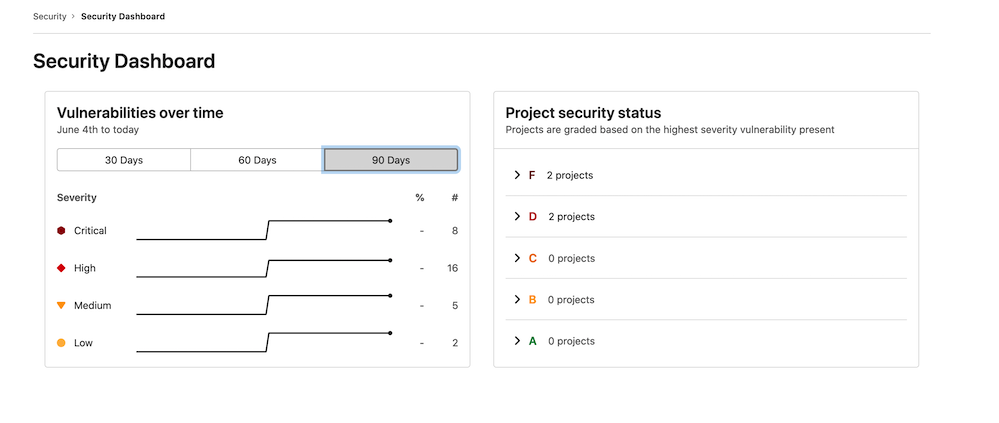
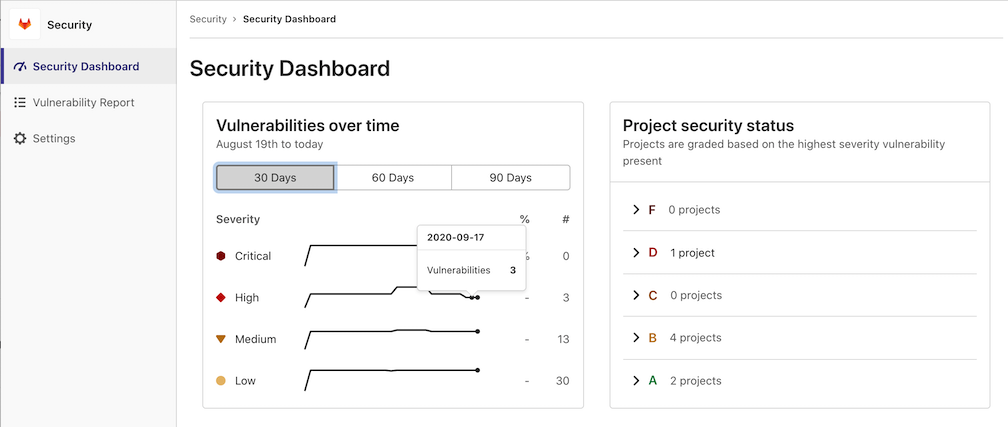
Changing Security Dashboard to Security Center

diff --git a/doc/user/application_security/security_dashboard/index.md b/doc/user/application_security/security_dashboard/index.md
@@ -5,21 +5,26 @@ group: Threat Insights
 info: To determine the technical writer assigned to the Stage/Group associated with this page, see https://about.gitlab.com/handbook/engineering/ux/technical-writing/#designated-technical-writers
 ---
 
-# GitLab Security Dashboard **(ULTIMATE)**
+# GitLab Security Dashboard, Security Center, and Vulnerability Reports **(ULTIMATE)**
 
-The Security Dashboard is a good place to get an overview of all the security
-vulnerabilities in your groups, projects, and pipelines.
+GitLab provides a comprehensive set of features for viewing and managing vulnerabilities:
+
+- Security dashboards: An overview of the security status in your instance, groups, and projects.
+- Vulnerability reports: Detailed lists of all vulnerabilities for the instance, group, project, or
+  pipeline. This is where you triage and manage vulnerabilities.
+- Security Center: A dedicated area for vulnerability management at the instance level. This
+  includes a security dashboard, vulnerability report, and settings.
 
 You can also drill down into a vulnerability and get extra information. This includes the project it
 comes from, any related file(s), and metadata that helps you analyze the risk it poses. You can also
 dismiss a vulnerability or create an issue for it.
 
-To benefit from the Security Dashboard you must first configure one of the
+To benefit from these features, you must first configure one of the
 [security scanners](../index.md).
 
 ## Supported reports
 
-The Security Dashboard displays vulnerabilities detected by scanners such as:
+The vulnerability report displays vulnerabilities detected by scanners such as:
 
 - [Container Scanning](../container_scanning/index.md)
 - [Dynamic Application Security Testing](../dast/index.md)
@@ -29,7 +34,7 @@ The Security Dashboard displays vulnerabilities detected by scanners such as:
 
 ## Requirements
 
-To use the instance, group, project, or pipeline security dashboard:
+To use the security dashboards and vulnerability reports:
 
 1. At least one project inside a group must be configured with at least one of
    the [supported reports](#supported-reports).
@@ -112,38 +117,43 @@ Next to the timeline chart is a list of projects, grouped and sorted by the seve
 Projects with no vulnerability tests configured will not appear in the list. Additionally, dismissed
 vulnerabilities are excluded.
 
-Navigate to the group's [Vulnerability Report](#vulnerability-list) to view the vulnerabilities found.
+Navigate to the group's [vulnerability report](#vulnerability-report) to view the vulnerabilities found.
 
-## Instance Security Dashboard
+## Instance Security Center
 
-> [Introduced](https://gitlab.com/gitlab-org/gitlab/-/issues/6953) in [GitLab Ultimate](https://about.gitlab.com/pricing/) 12.8.
+> [Introduced](https://gitlab.com/groups/gitlab-org/-/epics/3426) in [GitLab Ultimate](https://about.gitlab.com/pricing/) 13.4.
 
-At the instance level, the Security Dashboard displays the vulnerabilities present in the default
-branches of all the projects you configure to display on the dashboard. It includes all the
-[group Security Dashboard's](#group-security-dashboard)
-features.
+The Security Center is where you manage vulnerabilities for your instance. It displays the
+vulnerabilities present in the default branches of all the projects you configure. It includes the
+following:
+
+- The [group security dashboard's](#group-security-dashboard) features.
+- A [vulnerability report](#vulnerability-report).
+- A dedicated settings area to configure which projects to display.
 
 ![Instance Security Dashboard with projects](img/instance_security_dashboard_v13_4.png)
 
-You can access the Instance Security Dashboard from the menu
+You can access the Instance Security Center from the menu
 bar at the top of the page. Under **More**, select **Security**.
 
-![Instance Security Dashboard navigation link](img/instance_security_dashboard_link_v12_4.png)
+![Instance Security Center navigation link](img/instance_security_dashboard_link_v12_4.png)
 
-The dashboard is empty before you add projects to it.
+The dashboard and vulnerability report are empty before you add projects.
 
-![Uninitialized Instance Security Dashboard](img/instance_security_dashboard_empty_v13_4.png)
+![Uninitialized Instance Security Center](img/instance_security_dashboard_empty_v13_4.png)
 
-### Adding projects to the dashboard
+### Adding projects to the Security Center
 
-To add projects to the dashboard:
+To add projects to the Security Center:
 
 1. Click **Settings** in the left navigation bar or click the **Add projects** button.
 1. Search for and add one or more projects using the **Search your projects** field.
 1. Click the **Add projects** button.
 
-After you add projects, the Security Dashboard displays the vulnerabilities found in those projects'
-default branches.
+![Adding projects to Instance Security Center](img/instance_security_center_settings_v13_4.png)
+
+After you add projects, the security dashboard and vulnerability report display the vulnerabilities
+found in those projects' default branches.
 
 ## Export vulnerabilities
 
@@ -192,14 +202,14 @@ When using [Auto DevOps](../../../topics/autodevops/index.md), use
 [special environment variables](../../../topics/autodevops/customize.md#environment-variables)
 to configure daily security scans.
 
-## Vulnerability list
+## Vulnerability report
 
-Each dashboard's vulnerability list contains vulnerabilities from the latest scans that were merged
+Each vulnerability report contains vulnerabilities from the latest scans that were merged
 into the default branch.
 
 ![Vulnerability Report](img/group_vulnerability_report_v13_4.png)
 
-You can filter which vulnerabilities the Security Dashboard displays by:
+You can filter which vulnerabilities the vulnerability report displays by:
 
 - Status
 - Severity

diff --git a/doc/README.md b/doc/README.md
@@ -295,7 +295,7 @@ The following documentation relates to the DevOps **Secure** stage:
 | [Dependency Scanning](user/application_security/dependency_scanning/index.md) **(ULTIMATE)**          | Analyze your dependencies for known vulnerabilities.                   |
 | [Dynamic Application Security Testing (DAST)](user/application_security/dast/index.md) **(ULTIMATE)** | Analyze running web applications for known vulnerabilities.            |
 | [Group Security Dashboard](user/application_security/security_dashboard/index.md#group-security-dashboard) **(ULTIMATE)**      | View vulnerabilities in all the projects in a group and its subgroups. |
-| [Instance Security Dashboard](user/application_security/security_dashboard/index.md#instance-security-dashboard) **(ULTIMATE)**      | View vulnerabilities in all the projects you're interested in. |
+| [Instance Security Center](user/application_security/security_dashboard/index.md#instance-security-center) **(ULTIMATE)**      | View vulnerabilities in all the projects you're interested in. |
 | [License Compliance](user/compliance/license_compliance/index.md) **(ULTIMATE)**            | Search your project's dependencies for their licenses.                 |
 | [Pipeline Security](user/application_security/security_dashboard/index.md#pipeline-security) **(ULTIMATE)**    | View the security reports for your project's pipelines.               |
 | [Project Security Dashboard](user/application_security/security_dashboard/index.md#project-security-dashboard) **(ULTIMATE)**    | View the latest security reports for your project.                     |

diff --git a/doc/development/integrations/secure_partner_integration.md b/doc/development/integrations/secure_partner_integration.md
@@ -44,7 +44,7 @@ best place to integrate your own product and its results into GitLab.
 - If certain policies (such as [merge request approvals](../../user/project/merge_requests/merge_request_approvals.md))
   are in place for a project, developers must resolve specific findings or get
   an approval from a specific list of people.
-- The [security dashboard](../../user/application_security/security_dashboard/index.md#gitlab-security-dashboard)
+- The [security dashboard](../../user/application_security/security_dashboard/index.md)
   also shows results which can developers can use to quickly see all the
   vulnerabilities that need to be addressed in the code.
 - When the developer reads the details about a vulnerability, they are
